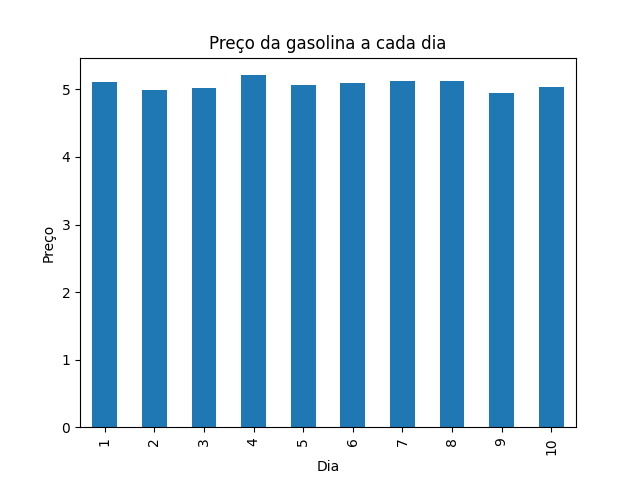
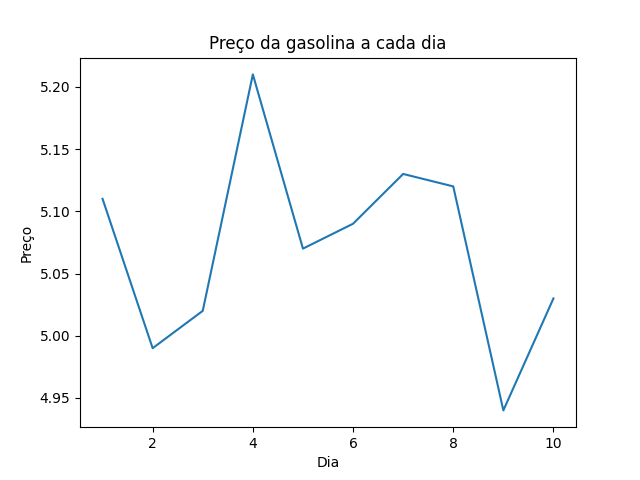
O gráfico de barras de gasolina.png foi substituído por um gráfico de linhas, o código utilizado foi gravado em gasolina.py

Changed region(s): [[0.0312, 0.1562, 0.9062, 0.9688], [0.5, 0.9375, 0.5312, 1.0]]

diff --git a/gasolina.py b/gasolina.py
@@ -1,4 +1,5 @@
 
+# Importando bibliotecas
 import matplotlib.pyplot as plt
 import pandas as pd
 
@@ -6,10 +7,10 @@ import pandas as pd
 gasolina_df = pd.read_csv('gasolina.csv', sep=',')
 
 # Plotando um gráfico de barras usando Matplotlib
-gasolina_df.plot(kind='bar', x='dia', y='venda', legend=False)
+gasolina_df.plot(kind='line', x='dia', y='venda', legend=False)
 plt.title('Preço da gasolina a cada dia')
 plt.xlabel('Dia')
 plt.ylabel('Preço')
 
 # Salvando gráfico como png
-plt.savefig('meu_grafico.png')
+plt.savefig('gasolina.png')
